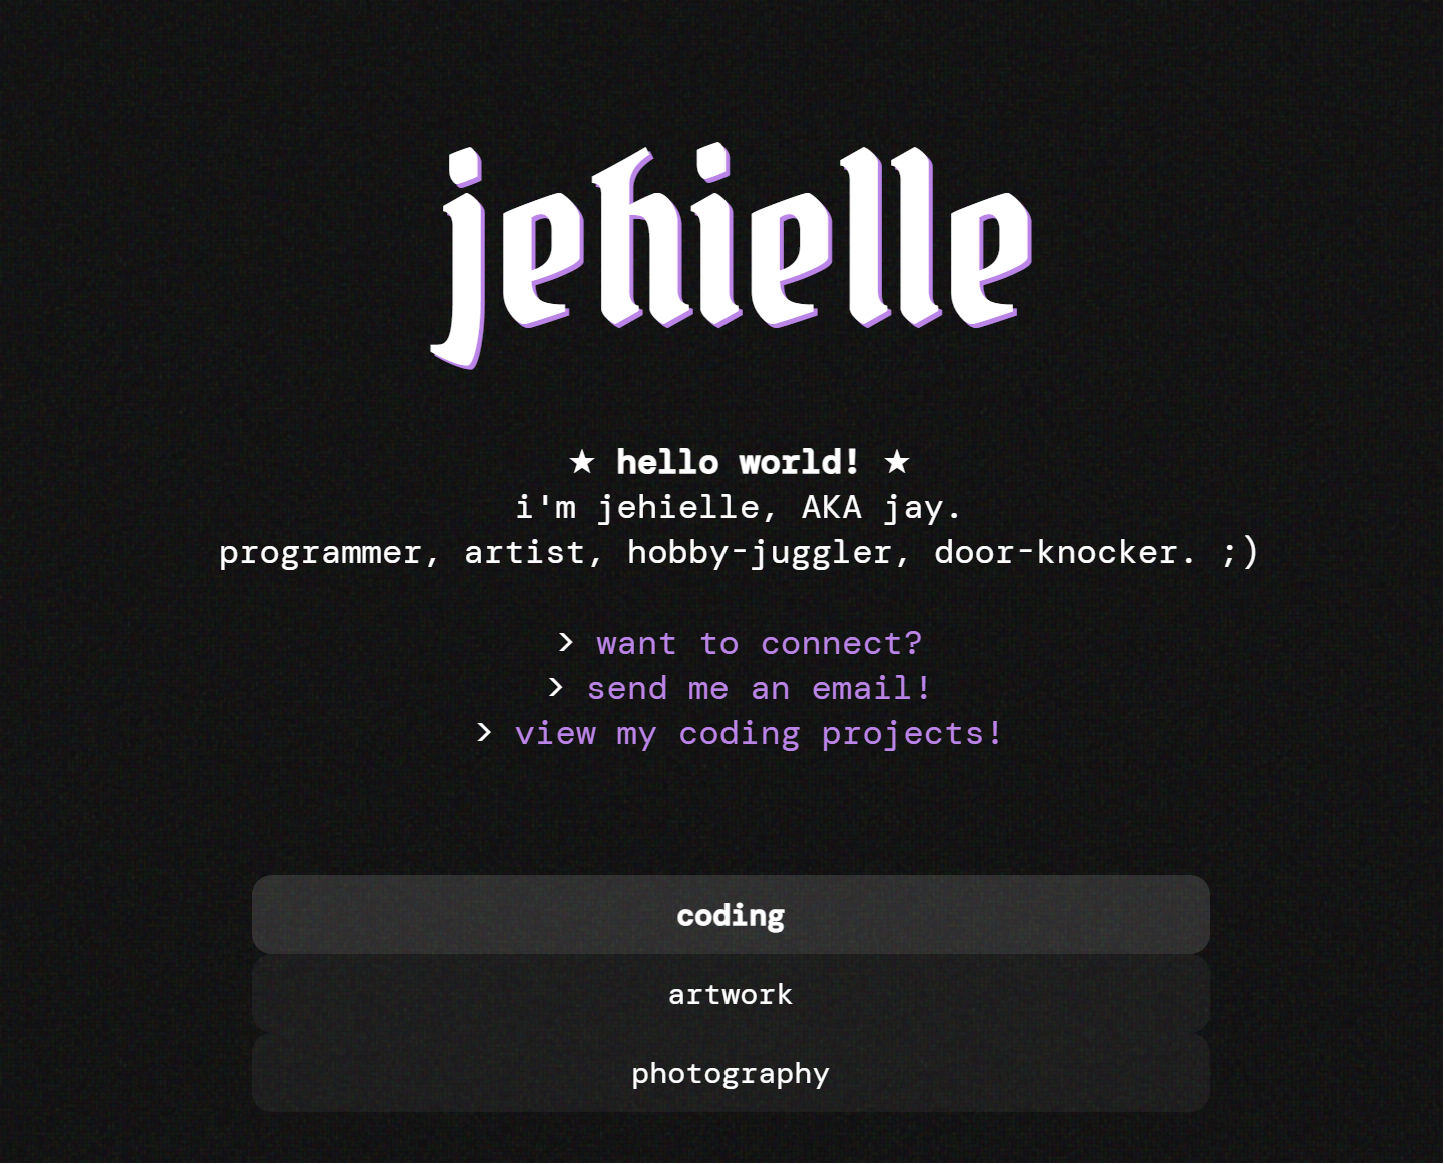
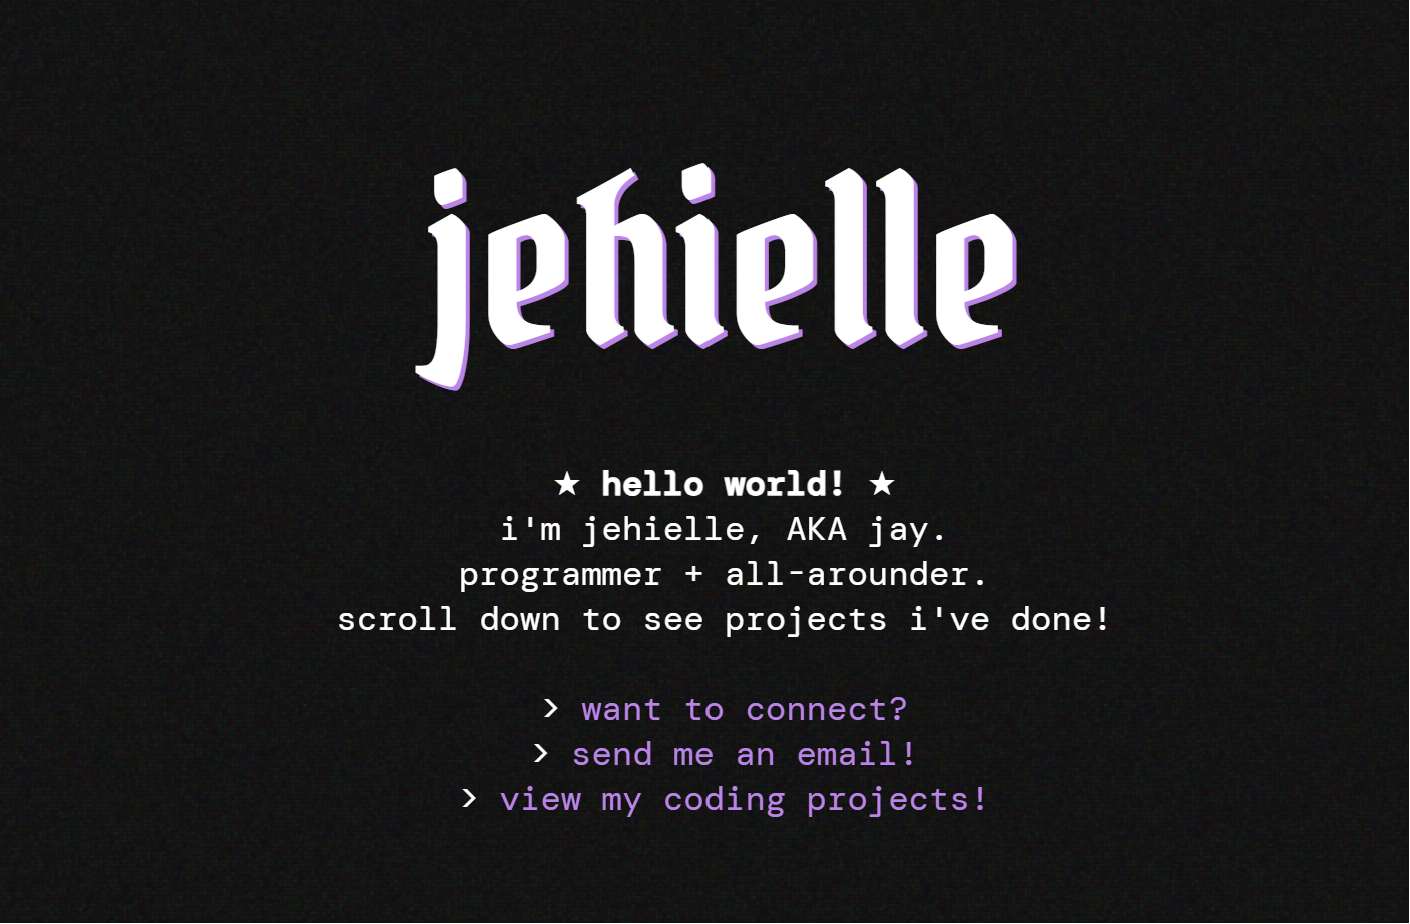
updates
added another project

diff --git a/index.html b/index.html
@@ -24,8 +24,8 @@
 
             <p>
                 &#9733;<b> hello world! </b>&#9733;
-                <br>i'm jehielle, AKA jay. <br> programmer, hobby-juggler, door-knocker. ;)
-                <br>just one of 8 billion (for hire).
+                <br>i'm jehielle, AKA jay. <br> programmer + all-arounder.
+                <br>scroll down to see projects i've done!
                 <br>
                 <br> > <a href="https://rb.gy/0f7ks8">want to connect?</a>
                 <br> > <a href="mailto:urmail2jj@gmail.com">send me an email!</a>
@@ -40,8 +40,14 @@
                 <label for="tabone" style="font-family:'DM Mono';width:45%;">coding<i class='bx bx-x bx-xs'></i>  </label>
                 <div class="tab">
                     <br>
+
+                    <p> 
+                        data analytics:<br>
+                    </p>
+                        <a href="https://github.com/jehielle/PowerBI-Projects"><img style="width: 240px;" src="assets/awdw.png"></a>
+
                     <p>
-                        full-stack projects:<br>
+                        <br>full-stack projects:<br>
                     </p>
                     <a href="https://github.com/jehielle/pinterest_clone"><img style="width: 240px;" src="assets/pin.png"></a>
                     <a href="https://github.com/jehielle/biblejeopardy"><img style="width:240px;" src="assets/jeopardy.jpg"></a>
@@ -57,7 +63,6 @@
                         <br>front-end:<br>
                     </p>
                     <a href="treasureisland/book.html"><img style="width: 240px;" src="assets/book.gif"></a>
-                    <a href="askout/askout.html"><img src="assets/question.gif"></a>
 
                     
 		    
@@ -81,23 +86,6 @@
                         </div><!-- second column ends -->
                     </div><!-- div class row ends -->
                 </div> <!-- div class (artwork) tab ends -->
-
-                <input type="radio" name="tabs" id="tabthree">
-                <label for="tabthree" style="font-family:'DM Mono';width:45%;">photography <i class='bx bx-x bx-xs'></i>  </label>
-                <div class="tab">
-
-                    <div class="row">
-                        <div class="column">
-                                <img src="assets/photo_1.jpg" style="width:100%">
-                                <img src="assets/photo_4.jpg" style="width:100%">
-                        </div> <!-- first column ends -->
-
-                        <div class="column">
-                                <img src="assets/photo_3.png" style="width:100%"">
-                                <img src="assets/photo_2.jpg" style="width:100%">
-                        </div><!-- second column ends -->
-                    </div><!-- div class row ends -->
-                </div> <!-- div class (photography) tab ends -->
 
                 <!-- OTHER TABS GO HERE -->
                 
